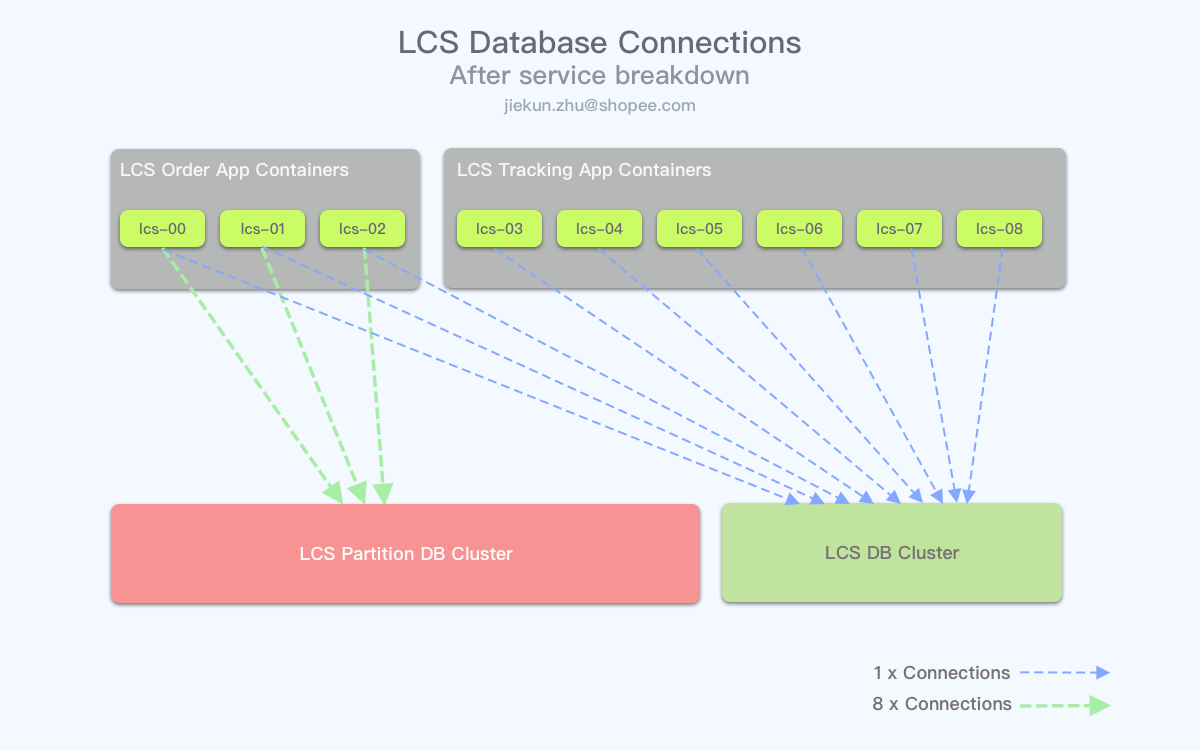
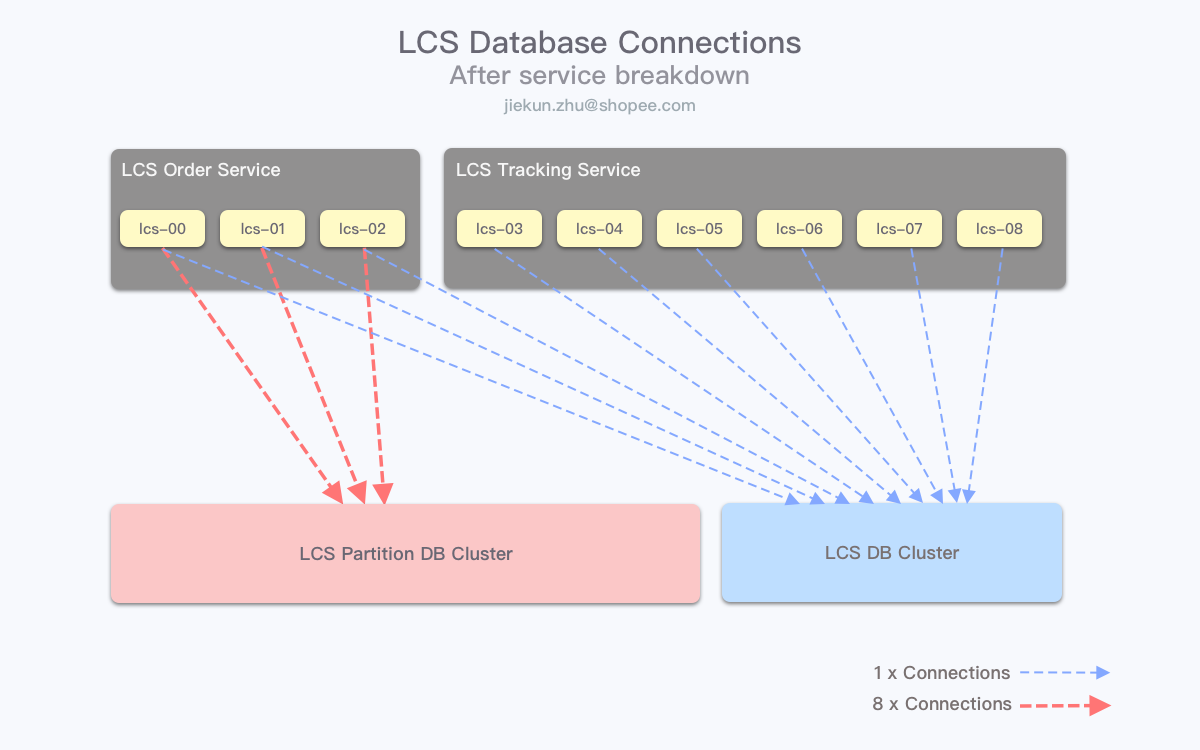
Update db partitioning

diff --git a/jiekun.dev/content/posts/db-partitioning.md b/jiekun.dev/content/posts/db-partitioning.md
@@ -9,149 +9,160 @@ comments: true
 archieved: false
 ---
 
-> Shopee供应链Logistics Channel Service项目是物流履约链路上的最后一环，连接Shopee物流订单与第三方物流服务(3rd Party Logistics)，几乎所有与3PL的交互都会收拢到LCS服务中。
+> Shopee供应链 Logistics Channel Service 项目（下称LCS）是物流履约链路上的最后一环，连接Shopee物流订单与第三方物流服务（3rd Party Logistics，下称 3PL ），几乎所有与 3PL 的交互都会收拢到LCS服务中。
 > 
-> 从2019年9月至今，随着上游系统拆分迁移，越来越多3PL进入LCS负责范围；并且由于电商业务在2020年的飞速发展，系统每月的订单量也在陡增，对数据库的要求和压力也随之而来，在短短1年内，数据库架构跟随业务增长进行了多次调整。
+> 从 2019 年 9 月至今，随着上游系统拆分迁移，越来越多 3PL 进入 LCS 负责范围；并且由于电商业务在 2020 年的飞速发展，系统每月的订单量也在陡增，对数据库的要求和压力随之而来，在短短 1 年内，数据库架构跟随业务增长进行了多次调整。
 >
-> 本文简要回顾了LCS诞生至今的数据库架构变化，并介绍项目组在2020年末落地的分库实践，梳理落地过程中踩过的坑和总结的经验、教训和思考。
+> 本文简要回顾了 LCS 诞生至今的数据库架构变化，并介绍项目组在 2020 年末落地的分库实践，梳理落地过程中踩过的坑和总结的经验、教训和思考。
 >
 > 新方案实践的过程中，有遇到常规库表拆分中共有的问题，也有针对项目场景的“特色”问题，解决问题更多是权衡取舍的过程，在没有完美解决方案的情况下，需要结合业务特性来分析和选择最有利的方式处理。
 
 # Introduction
 ## 项目起源
-LCS是一个基于Python Django框架的项目，业务核心是物流订单的履约过程，包括连接上游和第三方物流服务的创建订单、轨迹与运费更新。在部署上，LCS依据业务所在的市场（印尼、马来西亚、新加坡等）不同，应用层分市场部署，并使用各自市场对应的数据库。在项目起步初期，这些不同市场的数据库共用同一套物理集群，共享xxxxGiB内存和xxxxTiB的磁盘空间，在资源上看，是足以应付初期流量的。
+LCS 是一个基于 Python Django 框架的项目，业务核心是物流订单的履约过程，包括连接上游和第三方物流服务的创建订单、轨迹与运费更新。在部署上，LCS 依据业务所在的市场（印尼、马来西亚、新加坡等）不同，应用层分市场部署，并使用各自市场对应的数据库。在项目起步初期，这些不同市场的数据库共用同一套物理集群，共享内存和磁盘空间，在资源上看，是足以应付初期流量的。
 
 ![](../202012-db-partition/lcs_db_single_cluster.png)
 
 随着业务的铺开，共用集群的问题慢慢体现了出来。地区与地区之间存在业务差异，订单数量、订单轨迹比例不同，依赖物理集群自身的资源调度不能满足我们的需要，很多时候：
-- 订单量大的地区的数据库读写影响了订单量少的地区的I/O资源
-- 轨迹推送QPS远比下单高，大量的轨迹信息读写影响了核心的下单流程
+- 订单量大的地区的数据库读写影响了订单量少的地区的 I/O 资源
+- 轨迹推送 RPS 远比下单高，大量的轨迹信息读写影响了核心的下单流程
 
-在尽量不影响业务的情况下，我们先选择了将热点地区的数据库拆分到单独的物理集群上，独占资源，保证自身服务稳定的同时，也减少了对其他地区服务的影响。在这个过程中，由于原来的设计使用的是逻辑库，所以切换没有任何的业务改动，在DBA的协助下，可以非常迅速地完成这个操作。
+在尽量不影响业务的情况下，我们先选择了将热点地区的数据库拆分到单独的物理集群上，独占资源，保证自身服务稳定的同时，也减少了对其他地区服务的影响。在这个过程中，由于不同市场使用的是不同的逻辑库，所以切换没有任何的业务改动，在 DBA 的协助下，可以非常迅速地完成这个操作。
 
 ![](../202012-db-partition/lcs_db_multi_cluster.png)
 
-面对轨迹推送更高QPS的问题，我们使用了临时表和消息队列进行削峰，让解析轨迹并绑定到对应订单上的过程延迟发生，整个处理操作更加平滑。问题在于临时表是设计在业务MySQL库中的，业务上，轨迹更新可以缓冲，但是MySQL受到的压力并没有减少。
+面对轨迹推送更高 RPS 的问题，我们使用了临时表和消息队列进行削峰，让解析轨迹并绑定到对应订单上的过程延迟发生，整个处理操作更加平滑。问题在于临时表是设计在业务 MySQL 库中的，业务上，轨迹更新可以缓冲，但是 MySQL 受到的压力并没有减少。
 
-因此，在前面的物理集群拆分后，我们又启用了TiDB存放临时轨迹数据，尽量降低对MySQL的`INSERT`和`DELETE`操作数量，这样做的好处在于能减少由于`DELETE`操作带来的频繁页分裂与合并，有利于查询性能，以及写操作引起的主从延迟。
+因此，在前面的物理集群拆分后，我们又启用了 TiDB 存放临时轨迹数据，尽量降低对 MySQL 的 `INSERT` 和 `DELETE` 操作数量，这样做的好处在于能减少由于写操作带来的频繁页分裂与合并，有利于查询性能，以及写操作引起的主从延迟。
 
 ![](../202012-db-partition/lcs_db_with_tidb.png)
 
 
 ## 面临挑战
-尽管已经做了两次拆分和调整，但是随着订单量的持续上涨，又由于物流订单中的信息繁杂，尤其上游早期未加以限制的各种收发货地址、名称、联系方式，以及跨国运输业务所需要的详细的商品细节，再加上物流轨迹的描述信息，让每个订单的文本类型数据非常多，数据库表的体积容易暴涨。
+尽管已经做了两次拆分和调整，但是随着订单量的持续上涨，又由于物流订单中的信息繁杂，尤其上游早期未加以限制的各种收发货地址、名称、联系方式，以及跨国运输业务所需要的详细的商品细节，再加上物流轨迹的描述信息，让每个订单的**文本类型数据非常多**，数据库表的**体积**容易暴涨。
 
-根据2020年下半年的数据统计，印尼地区的MySQL集群磁盘使用量在短短数个月内已经突破30%，并且随着流量灰度比例上涨，每个月的增量都比以往更大。在灰度结束后，又迎来了下半年几个重要的促销活动时间节点——双9、双11、双12，数据体积进一步增长，仅通过日常的数据清理与数据库压缩已经没有办法维持集群磁盘空间的未来使用了。
+根据 2020 年下半年的数据统计，印尼地区的 MySQL 集群磁盘使用量在短短数个月内已经突破 30%，并且随着上游流量灰度至本服务的比例上涨，每个月的增量都比以往更大。在灰度结束后，又迎来了下半年几个重要的促销活动时间节点——双9、双11、双12，数据体积进一步增长，仅通过日常的数据清理与数据库压缩已经没有办法维持集群磁盘空间的未来使用了。
 
 # Evolution
-DBA团队在历次集群调整的过程中，都一再强调了数据增速过快，磁盘空间规划和使用的问题。而业务产品团队也提出运营数据相关的需求，历史物流订单的数据在未来没有办法直接删除，而需要归档用于统计分析。这也推动了业务研发团队要尽快输出方案，应对更大的单量和不同的产品需求。
+DBA 团队在历次集群调整的过程中，都一再强调了数据增速过快，磁盘空间规划和使用的问题。而业务产品团队也提出运营数据相关的需求，历史物流订单的数据在未来没有办法直接删除，而需要归档用于统计分析。这也推动了业务研发团队要尽快输出方案，应对更大的单量和不同的产品需求。
 
 ## 设计目标
 在当前设计下，每个地区使用单个数据库，由于单库的数据体积暴涨，因此将各地区的数据库进行分库势在必行。我们期望新的架构可以：
-- **承载未来较长一段时间的数据存储需求**。因为硬件资源有限，很多时候变动并不容易实施，而且重新调整架构也是让DBA和业务研发人员非常痛苦的一件事情
-- **同样稳定可靠**。对核心业务链路上的项目而言，稳定性是最重要的
-- **保留合理的可扩展性**。重新调整架构很难，但不代表当前架构下不能做业务无感知的横向扩展
-- **便于进行数据归档**。来自产品团队的需求，数据也是支撑未来业务设计的核心因素
+- **承载未来较长一段时间的数据存储需求**。因为硬件资源有限，很多时候变动并不容易实施，而且重新调整架构也是让 DBA 和业务研发人员非常痛苦的一件事情；
+- **同样稳定可靠**。对核心业务链路上的项目而言，稳定性是最重要的；
+- **保留合理的可扩展性**。重新调整架构很难，但不代表当前架构下不能做业务无感知的横向扩展；
+- **便于进行数据归档**。来自产品团队的需求，数据也是支撑未来业务设计的核心因素。
 
 ## 方案设计
 ### 分库模型
 在最初的设计中，我们期望新的分库模型能够很容易完成数据归档的操作，例如可以从一个较粗的粒度将历史数据转移到归档机器上。因此第一个诞生的想法是设计**按月份拆分的数据库**。当前的单库设计——所有的数据都落在不同的哈希分表中，要将历史数据捞出来进行转移是非常麻烦的：
-- DBA团队不会访问和维护数据库中的数据，因此业务侧要自己完成归档操作
-- 访问和迁移指定时间范围的数据，意味着所有哈希分表的B+树需要发生大量的页合并操作，不利于线上业务的性能
+- DBA 团队不会访问和维护数据库中的数据，因此业务侧要自己完成归档操作；
+- 访问和迁移指定时间范围的数据，意味着所有哈希分表的 B+ 树需要发生大量的页合并操作，不利于线上业务的性能。
 
-因此，按月分库的想法初衷是想把可以进行归档的数据集中在一起，不管是业务侧想办法迁移，还是DBA能够提供数据库维度的操作，都能简化一定的操作成本。
+因此，按月分库的想法初衷是想把可以进行归档的数据集中在一起，不管是业务侧想办法迁移，还是 DBA 能够提供数据库维度的操作，都能简化一定的操作成本。
 
 ![](../202012-db-partition/lcs_db_time_partitioning.png)
 
 然而，没有十全十美的方案，如果想要按月份拆分，当月内的数据就会落到同一个数据库中，在未来不可避免会存在各个库的数据量不均匀，热点数据集中等问题。并且随着单月数据量的增大，未来再来处理单库体积，例如将单月的数据再做哈希分库，数据库的结构就变得更为复杂了。
 
-所以，第二个较为容易实施的划分方案自然是一开始就**直接按照哈希分库**，让数据均匀地落到不同的分库中去。但这样又有和单库做数据归档一样的问题——数据均匀分布，没有较粗的粒度可以定位出历史数据，需要依赖应用层一点一点做迁移。
+所以，第二个较为容易实施的划分方案自然是一开始就**直接按照哈希分库**，让数据均匀地落到不同的分库中去。但这样又有和单库做数据归档一样的问题——库表均按哈希划分，数据均匀分布，没有较粗的粒度可以定位出历史数据，需要依赖应用层一点一点做迁移。
 
 ![](../202012-db-partition/lcs_db_hash_partitioning.png)
 
 这时，我们需要考虑在两种方案之间做一定的权衡，选取更适合当前和未来业务的方案：
-- **支撑未来业务**：两种方案都降低了单库的数据量，但是按时间分库会在业务进一步增长后，单库体积继续难以管控；哈希分库会更加均匀
-- **稳定性**：从部署和使用上，两种方案的稳定性影响因素都比较类似。但是以时间分库可能需要DBA团队的手动维护，包括如何持续未来各个月份的数据库等。我们会更倾向于使用人工操作次数少的方案，哈希分库在搭建完成、交付后更可靠。
-- **可扩展性**：按时间分库比较难继续做拆分，例如在未来改成时间+哈希的方案，但是会显著增加复杂度；哈希分库可以考虑直接增加“`% base`”的数量，业务调整更小、更容易落地
-- **数据归档**：哈希分库不好处理归档数据，归档操作粒度太细，有应用层的操作开销，引入大量的数据行`DELETE`操作，并且不加以控制资源使用量会影响线上业务；按时间分库如果有DBA支持，可以更方便地完成数据归档，操作难度大幅降低
+- **支撑未来业务**：两种方案都降低了单库的数据量，但是按时间分库会在业务进一步增长后，单库体积继续难以管控；哈希分库会更加均匀；
+- **稳定性**：从部署和使用上，两种方案的稳定性影响因素都比较类似。但是以时间分库可能需要 DBA 团队的手动维护，包括如何持续未来各个月份的数据库等。我们会更倾向于使用人工操作次数少的方案，哈希分库在搭建完成、交付后更可靠；
+- **可扩展性**：按时间分库比较难继续做拆分，例如在未来改成时间+哈希的方案，但是会显著增加复杂度；哈希分库可以考虑直接增加“`% base`”的数值，业务调整更小、更容易落地；
+- **数据归档**：哈希分库不好处理归档数据，归档操作粒度太细，有应用层的操作开销，引入大量的数据行`DELETE`操作，并且不加以控制资源使用量会影响线上业务；按时间分库如果有DBA支持，可以更方便地完成数据归档，操作难度大幅降低。
 
 结合各方面的考量，我们**最终选择了哈希分库的方案**，通过牺牲数据归档操作的便捷性，期望能让业务应用在未来相对更稳定可靠。
 
 ### 应用部署架构拆分
-在确认分库的模型后，我们又遇到了另一个问题：受限于资源，想要给每个地区市场搭建多套物理集群，让每个哈希的分库都能独享机器，目前机房的剩余数量已经没办法支持。按照单个MySQL集群1主5从的搭配，8个地区、每个地区8个哈希分库，一共需要`6 * 8 * 8 = 384`台物理机，成本是非常高昂的。所以DBA团队能够交付到给业务团队的集群数只有8套，也就是每个地区独享、8个哈希分库共享各自的集群。
+在确认分库的模型后，我们又遇到了另一个问题：受限于资源，想要给每个地区市场搭建多套物理集群，让每个哈希的分库都能独享机器，目前机房的剩余数量已经没办法支持。按照单个 MySQL 集群 1 主多从的搭配，n 个地区市场、每个市场 m 个哈希分库，一共需要 `(1 master + s slave) × n × m` 台物理机，成本是非常高昂的。所以 DBA 团队能够交付到给业务团队的集群数只有 n 套，也就是 n 个地区市场均为独立集群，该市场上的 m 个哈希分库共用一套集群。
 
-由于Python应用的特点，各个Pyhton进程都持有各自的连接池，因此，业务侧持有的数据库连接数为：
-- **单进程连接数 * 进程数 * 容器数**
+由于 Python 应用的特点，各个 Pyhton 进程都持有各自的连接池，因此，业务侧持有的数据库连接数为：
+- **单进程连接数 * 进程数 * 机器数**。
 
-而由于机器资源的问题，不同的8个哈希分库又落在了同一套物理集群上，对主库的机器而言，连接数上限变成了：
-- **单进程连接数 * 进程数 * 容器数 * 数据库数**
+而由于机器资源的问题，不同的 m 个哈希分库又落在了同一套物理集群上，对主库的机器而言，连接数上限变成了：
+- **单进程连接数 * 进程数 * 机器数 * 数据库数**。
 
 ![](../202012-db-partition/lcs_db_connections.png)
 
 依照当前的业务量进行计算，维持现有架构直连新分库集群将会超过机器设置的连接数上限，而且本身大量的连接数对服务而言也是非常不利的。因此业务侧需要想办法降低连接数峰值，否则新的数据库集群将无法使用。
 
-改造可以从计算的公式入手，降低4个参数中的任意一个都能提供我们想要的效果。其中：
-- 数据库数是依据业务数据，从保证未来单库数据体积不超过一定值计算得出的，因此不能再继续调低
-- 进程数和连接池连接数的配置是依照业务请求量调整的，降低的话会让单容器的请求处理能力下降
+改造可以从计算的公式入手，降低 4 个参数中的任意一个都能提供我们想要的效果。其中：
+- 数据库数是依据业务数据，从保证未来单库数据体积不超过一定值计算得出的，因此不能再继续调低；
+- 进程数和连接池连接数的配置是依照业务请求量调整的，降低的话会让单机的请求处理能力下降。
 
-所以我们将尝试在容器数量上做改变，对需要访问核心数据库集群的订单流量与需要访问TiDB的轨迹信息流量进行划分。前面提到过，通常**轨迹流量会是订单流量的数倍**，如果可以将轨迹流量划分到不同的容器上去，那么需要访问核心数据库的容器就只可以大幅降低。以印尼地区为例，轨迹请求数量为下单请求的9倍，参考这个比例，并考虑保护核心的下单业务流程，我们在Nginx层**将原来处理混合下单、轨迹等请求的应用服务进行了拆分**。
+所以我们尝试在**机器数量**上做改变。由于**处理下单和处理轨迹推送更新的服务没有分离**，且**轨迹流量是订单流量的数倍**，因此该服务使用了较多的机器数量同时支撑下单与轨迹更新。但是轨迹流量是暂存 TiDB 而不访问 MySQL 的，如果可以服务分开部署，**老服务只负责下单访问 MySQL，新服务轨迹更新只访问 TiDB**，那么需要访问 MySQL 的机器数量就可以大幅降低。以印尼地区为例，轨迹请求数量为下单请求的 9 倍，参考这个比例，并考虑一定冗余机器数保护核心的下单业务流程，我们在 Nginx 代理层**将不同类型的接口划分至了不同服务**。
 
-拆分后，处理下单等服务的**容器数量降低到原来的25%**，相应地，在连接数计算结果上，数字也缩小了**1/4**。
+拆分后，处理下单等服务的**机器数量降低到原来的 25%**，相应地，在连接数计算结果上，数值也缩小至 **1/4**。
 
 ![](../202012-db-partition/lcs_db_connections_with_different_app.png)
 
-当然，造成连接数过高的问题有很多，解决方案也有有很多，例如用Golang将项目重构、在应用层和数据库集群之间再搭建一套服务用来统一管理连接、使用分库的中间件等。目前对LCS项目而言，重构的开销会比较大，其他的方案也需要单独设计和推动，**应用架构拆分**可能是较为可靠且**最容易落地的方案之一**。
+当然，造成连接数过高的原因有很多，解决方案也有很多，例如用 Golang 将项目重构（减少服务进程数）、在应用层和数据库集群之间再搭建一套服务用来统一管理连接、使用分库的中间件等。目前对 LCS 项目而言，重构的开销会比较大，其他的方案也需要单独设计和推动，**应用架构拆分**可能是较为可靠且**最容易落地的方案之一**。
 
 ## 业务改造
 确认数据库架构方案之后，应用层需要进行调整的内容主要包括：
-- 分库依据规则
-- 应用数据路由
-- 跨库操作补偿
+- 分库依据规则；
+- 应用数据路由；
+- 跨库操作补偿。
 
 ### 分库依据与路由规则
 为了避免数据迁移，让新数据库架构能够平滑、可灰度地上线，我们圈定了部分表作为划分进分库的范围，这部分表的**新增数据将会在新分库集群上进行读写，而老数据会在原数据库读写**。
 
-业务团队梳理了对应范围表的读写模型，因为**都依照其中的订单ID进行读写**，毫无疑问**订单ID可以作为分库的依据**，只需要稍加改造，加入一些标志信息，让应用层能区分开：
-- 订单ID应该在原数据库还是新的哈希分库
-- 订单ID应该落在哪个哈希分库
+业务团队梳理了对应范围表的读写模型，因为**都依照其中的订单 ID 进行读写**，毫无疑问**订单 ID 可以作为分库的依据**。因为数据库路由由应用层管理，只需要对订单 ID 稍加改造，加入一些标志信息，让应用层能区分开：
+- 订单 ID 应该在原数据库还是新的哈希分库；
+- 订单 ID 应该落在第几个哈希分库。
 
 调整框架内的数据库路由规则比较繁杂，包括将每类表的管理类重写，因为涉及的表比较多，所以也改动了大量的代码，这部分不一一赘述。
 
 ### 跨库一致性补偿
-由于只圈定了部分表到分库中，那么这部分表与原数据库表的交互就丢失了事务可行性，也就是没办法依赖数据库的事务保证它们一致了。MySQL提供了XA跨库事务操作，但是在实际使用中，使用XA跨库事务有很大的性能开销，并且也需要开发者有对应的知识储备来正确操作。
+由于只圈定了部分表到分库中，那么这部分表**与原数据库表的交互就丢失了事务可行性**，也就是没办法依赖数据库的事务保证它们一致了。 MySQL 提供了 XA 跨库事务操作，但是在实际使用中，使用 XA 跨库事务有很大的性能开销，并且也需要开发者有对应的知识储备来正确操作。
 
 因此，最终应用层的方案是增加一套检查机制，使得不同库表的操作如果发生异常，也能在异步的检查任务执行完成后，恢复（回退/清理）到一致的状态。
 
-以下单流程为例，我们有以下表落在了不同数据库，但需要严格保持一致性：
-- 订单表：在分库中，存有订单单号和订单对应3PL物流单号信息（通过订单单号获取订单信息，包括3PL物流单号）
-- 反查表：在旧库中，存有3PL物流单号信息和对应订单单号信息（通过3PL物流单号查订单单号）
+以下单流程为例，我们有以下表落在了不同数据库，但需要严格保持一致：
+- 订单表：在分库中，存有订单 ID 和订单对应 3PL 物流单号信息（通过订单单号获取订单信息，包括 3PL 物流单号）；
+- 反查表：在旧库中，存有 3PL 物流单号信息和对应订单单号信息（通过 3PL 物流单号查订单单号）。
 
-> 由于分库依据是订单ID，所以反查表的查询模式（条件只有3PL物流单号）让它没有办法放在分库中，只有带订单ID的查询才能在分库集群上正确被路由，否则需要遍历所有集群Fetch数据。
+> 由于分库依据是订单 ID ，所以反查表的查询模式（按 3PL 物流单号查询）让它没有办法放在分库中，只有带订单 ID 的查询才能在分库集群上正确被路由，否则需要遍历所有分库获取数据。
 
-为了保持反查表和订单表数据的一致，我们在旧库中新增了一个检查表（Checker），这样Checker与反查表能使用事务特性，保证如果反查表需要发生变更，会有对应的Checker被记录下来。
+为了保持反查表和订单表数据的一致，我们在旧库中新增了一个检查表（Checker），这样 Checker 与反查表能使用事务特性，保证如果反查表需要发生变更，会有对应的 Checker 被记录下来。
 
-反查表操作结束后，应用层继续操作订单表，如果操作失败，此时**反查表和订单表就会出现数据不一致的情况**。应用层有定期执行的**异步任务**，通过检查Checker信息，**对比当前订单表和反查表是否一致**，如果不一致，则通过**修改反查表记录让它们回到一致的状态**。
+反查表操作结束后，应用层继续操作订单表，如果操作失败，此时**反查表和订单表就会出现数据不一致的情况**。应用层有定期执行的**异步任务**，通过检查 Checker 信息，**对比当前订单表和反查表是否一致**，如果不一致，则通过**修改反查表记录让它们回到一致的状态**。
 
 ![](../202012-db-partition/lcs_db_distributed_data_consistency.png)
 
-以上图为例，`mapping`与`order_info`数据在不同数据库中，通过单库事务保证`mapping`数据与`check_log`数据同时存在，若后续`order_info`数据执行异常，后台任务延迟获取到`check_log`后，对比`mapping`与`order_info`数据，选择是否要对`mapping`进行清理。
+以上图为例，`mapping` 与 `order_info` 数据在不同数据库中，通过单库事务保证 `mapping` 数据与 `check_log` 数据同时存在，若后续 `order_info` 数据执行异常，后台任务延迟获取到 `check_log` 后，对比 `mapping` 与 `order_info` 数据，选择是否要对 `mapping` 进行清理。
 
-**Checker扮演的角色相当于InnoDB中的undo log**，如果事务执行失败，参照其中的内容进行回退或类似的操作，保证最终一致性。
+**Checker 扮演的角色相当于 InnoDB 中的 undo log**，如果事务执行失败，参照其中的内容进行回退或类似的操作，保证最终一致性。
 
-应用层实现数据一致性补偿，是最初提出几个不同方案的其中之一。如引用内容所述，每个分库中都设置对应的反查表，同样可以继续保留数据库事务的可行性，但是因为查询条件不同，需要额外遍历所有分库进行查询的开销。以上，包括不使用XA事务，都是出于不同业务场景、实践成本下的权衡取舍结果。
+应用层实现数据一致性补偿，是最初提出几个不同方案的其中之一，缺点是一致性需要在后台任务执行后才能保证，异常情况下涉及的表会出现短暂不一致的情况。若在各个分库中都设置对应的反查表，同样可以继续保留数据库事务的可行性，但是因为查询条件不同，需要额外遍历所有分库进行查询的开销。以上思路，包括不使用 XA 事务，都是出于不同业务场景、实践成本下的权衡取舍结果。
 
-## 落地上线
-### 异常分支验证
-在验证上述设计的各类改造时，测试团队也花费了大量的时间进行调试，尤其对于应用层有复杂的事务操作时，**异常情况的分支会比较多**，必须要确认应用层实现的**补偿方案对所有情况都能正确保证跨库数据的一致性**。
-
+## 发布维护
 ### 灰度发布
 应用架构、数据库架构的调整，在项目上都引入了非常多的新内容，因此灰度发布需要检查的内容也非常多。
 
-应用架构将部分流量划分到了全新的服务中去，在上线需要谨慎验证新服务的各种中间件连通性，流量处理结果是否与原服务一致，并且轨迹信息数据的发起端在第三方，任何的请求丢失都可能影响到重量和运费计算等核心指标。因为路由划分依赖Nginx，在发布时我们提前部署好应用层的服务，并让Devops团队协助，在接入层节点上按比例灰度线上流量。
+应用架构将部分流量划分到了新部署的服务中去，在上线需要谨慎验证**新服务的各种中间件连通性，流量处理结果是否与原服务一致**，并且轨迹信息数据的发起端在第三方，任何的请求丢失都可能影响到重量和运费计算等核心指标。因为路由划分依赖 Nginx，在发布时我们提前部署好应用层的服务，并让 Devops 团队协助，在 Nginx 节点上按比例让新路由配置逐步生效进行灰度。
 
-数据库架构的调整依赖应用改动，流量由应用层控制，因此灰度也由应用层实施。应用层通过配置开关管理订单ID规则，让特定容器IP、特定订单产生新分库规则的订单ID，其余订单仍保持使用旧订单ID。观察灰度订单的完整履约结果，确认无误后再慢慢扩大灰度比例。
+数据库架构的调整后，SQL 查询落入新分库集群或是老集群应用层的订单 ID 控制，因此灰度也由应用层实施。在代码全部发布完后，应用层通过配置开关管理订单 ID 规则，在满足特定条件（如特定机器 IP、比例和时间等）时才产生新分库规则的订单 ID，其余订单仍保持使用旧订单 ID。观察灰度订单的完整履约结果，确认无误后再慢慢扩大灰度比例。
+
+### 数据归档
+前面提到过，这套设计方案下，数据按照时间进行归档会比较困难，需要操作表中的具体数据。归档过程中大量 `UPDATE` 和 `DELETE` 产生的磁盘 I/O 会对业务性能表现产生影响。
+
+当前业务中只需保留最近6个月的数据，因此我们需要将创建时间在 6 个月前的订单筛选出来、写入至归档库、删除业务库数据。研发团队在设计后台归档任务的时候尽可能**避免集中迁移**，理论上只要迁移速度等同于下单写入的QPS即可维持平衡，因此将任务设计成每分钟执行，对数据库的压力能控制在可接受范围内。
+
+### 无迁移扩容
+通常在数据库扩容时，我们需要将原有数据进行迁移，让其平均分布在各个新数据库中。但有了归档基础后，我们可以发现在预留充足时间的情况下，数据库的逻辑扩容无需进行数据迁移。
+
+以数据库数量从 16 个扩至 64 个为例，通过修改订单 ID 规则，让新订单根据 `% 64`求路由，老订单继续使用 `% 16`，那么每个数据库的数据增长速度为总订单量增速的 1/64，是原来 1/16 的 25%。在**增速减缓，归档迁出速度不变**的情况下，原有的 16 个数据库中数据量会逐步从总订单量的 1/16 降低至 1/64，而新增的 48 个数据库数据量也会从 0 增长至 1/64。
+
+![](../202012-db-partition/lcs_db_scale_without_rebalancing.png)
+
+通过这种无数据迁移（Rebalance）的扩容，可以避免实施双写方案的复杂性和不确定性，且手动操作和人工检查双写正确性的环节更少；代价则是**无法在扩容后马上降低原有数据库的压力**，因为仍有大量老订单读写落在老数据库中，**压力需要随时间缓慢降低**。在监控机制完善且业务增长有一定规律的情况下，我们可以综合这些因素，预留足够多的时间进行扩容、接受缓慢的数据重平衡。
 
 # Conclusion
-除非有完美的解决方案，每一次的架构调整背后都是综合考量和权衡取舍的结果。本文中介绍了LCS项目在上线一年以来数据库架构演变过程的重要节点，以及在2020年末进行的分库改造实践、踩坑和总结思考。在新项目架构设计过程中，通常人们都会想设计一套未来数年都能稳定可用的系统，但是由于各种因素的限制，一些方案或是初期成本过高（尽管能减少未来的变更），或是较为激进、不可控，都会影响到最终实施和落地难度，而被排除在外。
+除非有完美的解决方案，每一次的架构调整背后都是综合考量和权衡取舍的结果。本文中介绍了 LCS 项目在上线一年以来数据库架构演变过程的重要节点，以及在 2020 年末进行的分库改造实践、踩坑和总结思考。在新项目架构设计过程中，通常人们都会想设计一套未来数年都能稳定可用的系统，但是由于各种因素的限制，一些方案或是初期成本过高（尽管能减少未来的变更），或是较为激进、不可控，都会影响到最终实施和落地难度，而被排除在外。
 
 架构设计是基于当前、考虑未来、平衡成本的任务，多个方面相互制约，未必都有最优解。在存在短板时能取长补短的系统架构才更有利于快速的业务发展。
